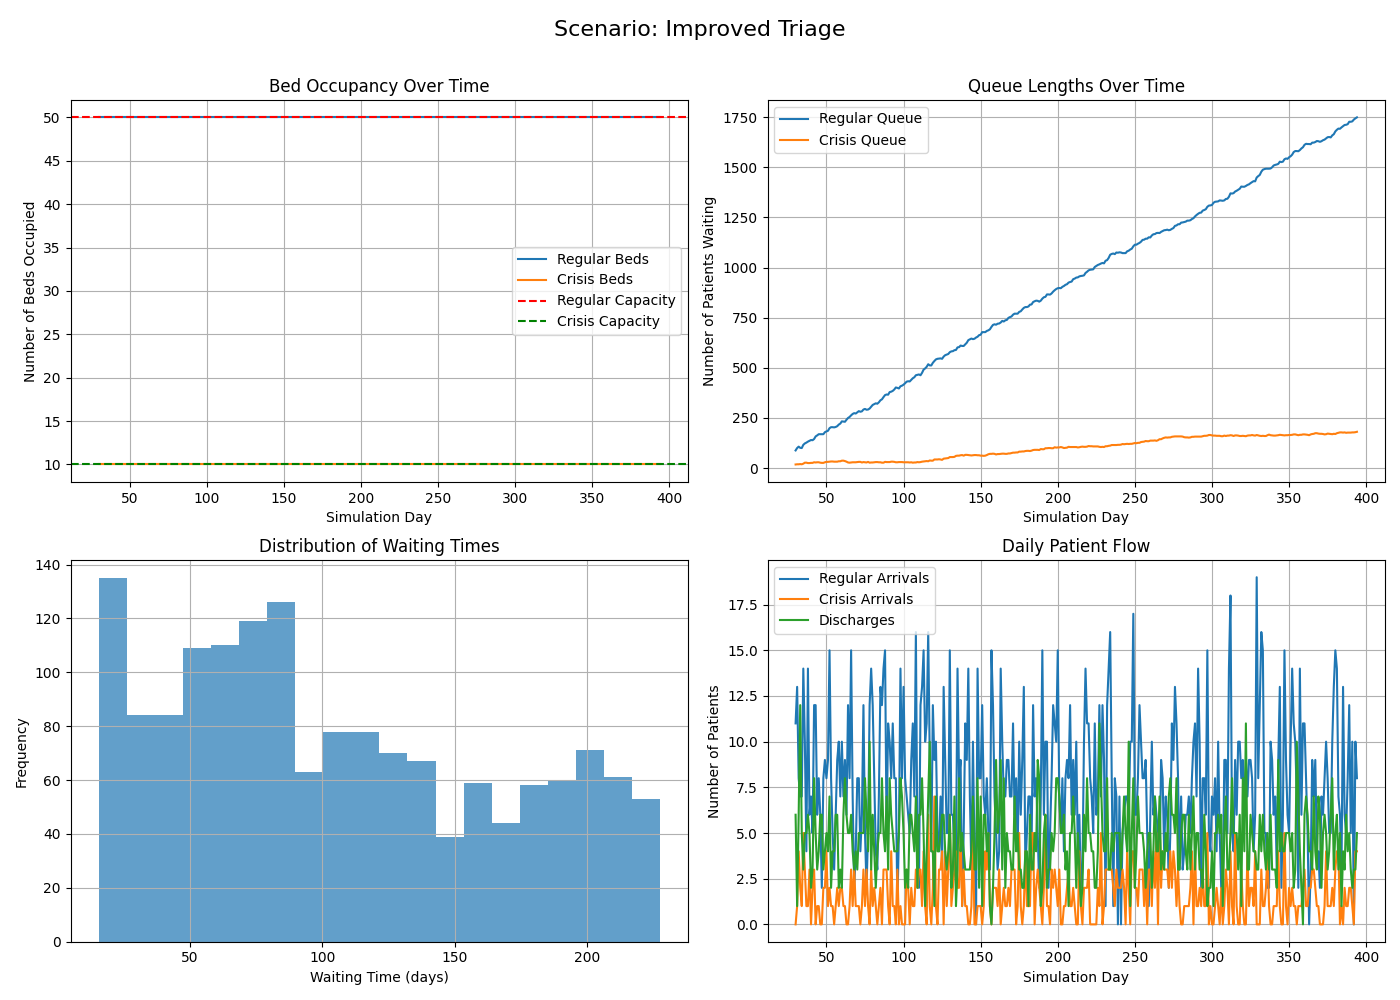
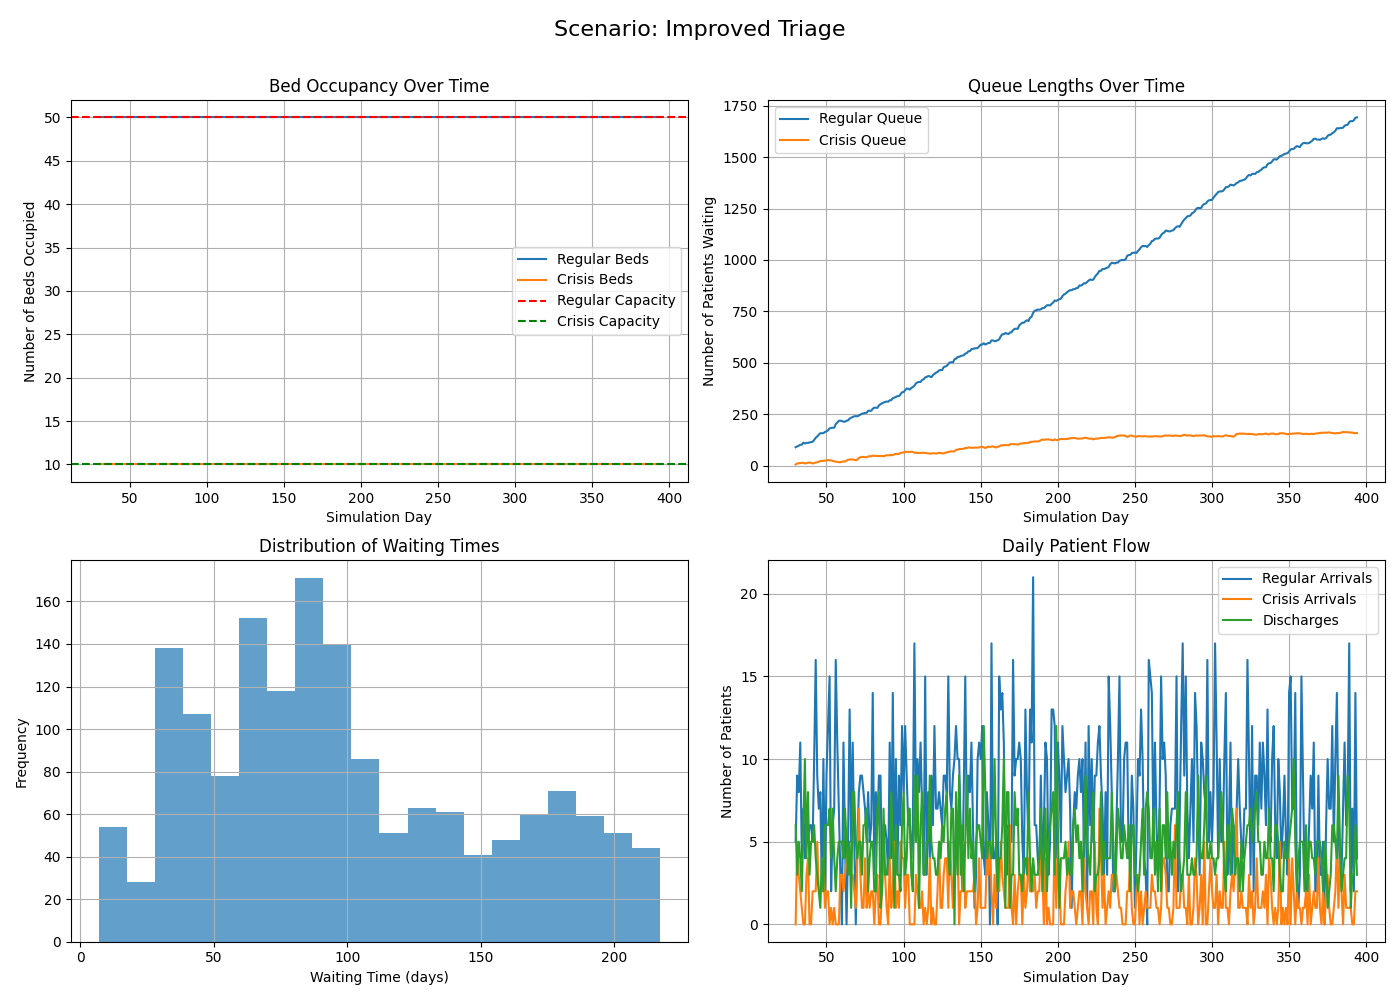
Build simulation and added project description

diff --git a/simulation.py b/simulation.py
@@ -424,3 +424,20 @@ if __name__ == "__main__":
         simulation_duration=365,
         warm_up_period=30
     )
+    
+    # Run 24/7 admissions scenario and increase capacity
+    extended_hours_results, extended_hours_sim = run_scenario(
+        "24-7 Admissions Plus Capacity Increase",  
+        regular_beds=60,  # 20% more regular beds
+        crisis_beds=12,   # 20% more crisis beds
+        regular_arrival_rate=8,
+        crisis_arrival_rate=2,
+        regular_los_mean=14,
+        crisis_los_mean=7,
+        triage_delay_mean=1.5,
+        time_dependent_arrivals=True,
+        weekend_admission_restriction=False,  # No weekend restrictions
+        night_admission_restriction=False,    # No night restrictions
+        simulation_duration=365,
+        warm_up_period=30
+    )

diff --git a/project-description.md b/project-description.md
@@ -1,0 +1,11 @@
+Project Logistics for Healthy Healthcare
+
+**Problem Outline/Background**
+
+To ensure the long-term viability of the Dutch healthcare system, it is increasingly important to gain control over regional healthcare frameworks. In particular, understanding the capacity of nursing homes, the number of first-line stay (FLV) and crisis beds, as well as the corresponding waiting times and occupancy rates, is essential. A first-line stay (FLV) refers to a short-term residency in a care institution for individuals who are temporarily unable to live independently at home due to medical reasons. Crisis beds are designated for individuals who require immediate (i.e., urgent) care. Gaining regional insight into these types of capacities and the performance of the healthcare logistics system can significantly contribute to improving overall care delivery.
+
+Within the _Logistics for Healthy Healthcare_ project, we are employing mathematical modeling to identify ways to optimize the utilization of available nursing home, FLV, and crisis beds. Currently, this information is either absent or not readily accessible. Our goal is to collect this data for the Arnhem (and Nijmegen) region in the most efficient manner possible (preferably via online databases) and translate it into a dynamic digital dashboard.
+
+**Assignment**
+
+Develop a dynamic digital dashboard for the Arnhem (and Nijmegen) region (at the municipal level) that provides insights into the available number of nursing home beds, the number of first-line stay (FLV) and crisis beds, as well as the corresponding waiting times and occupancy rates.
